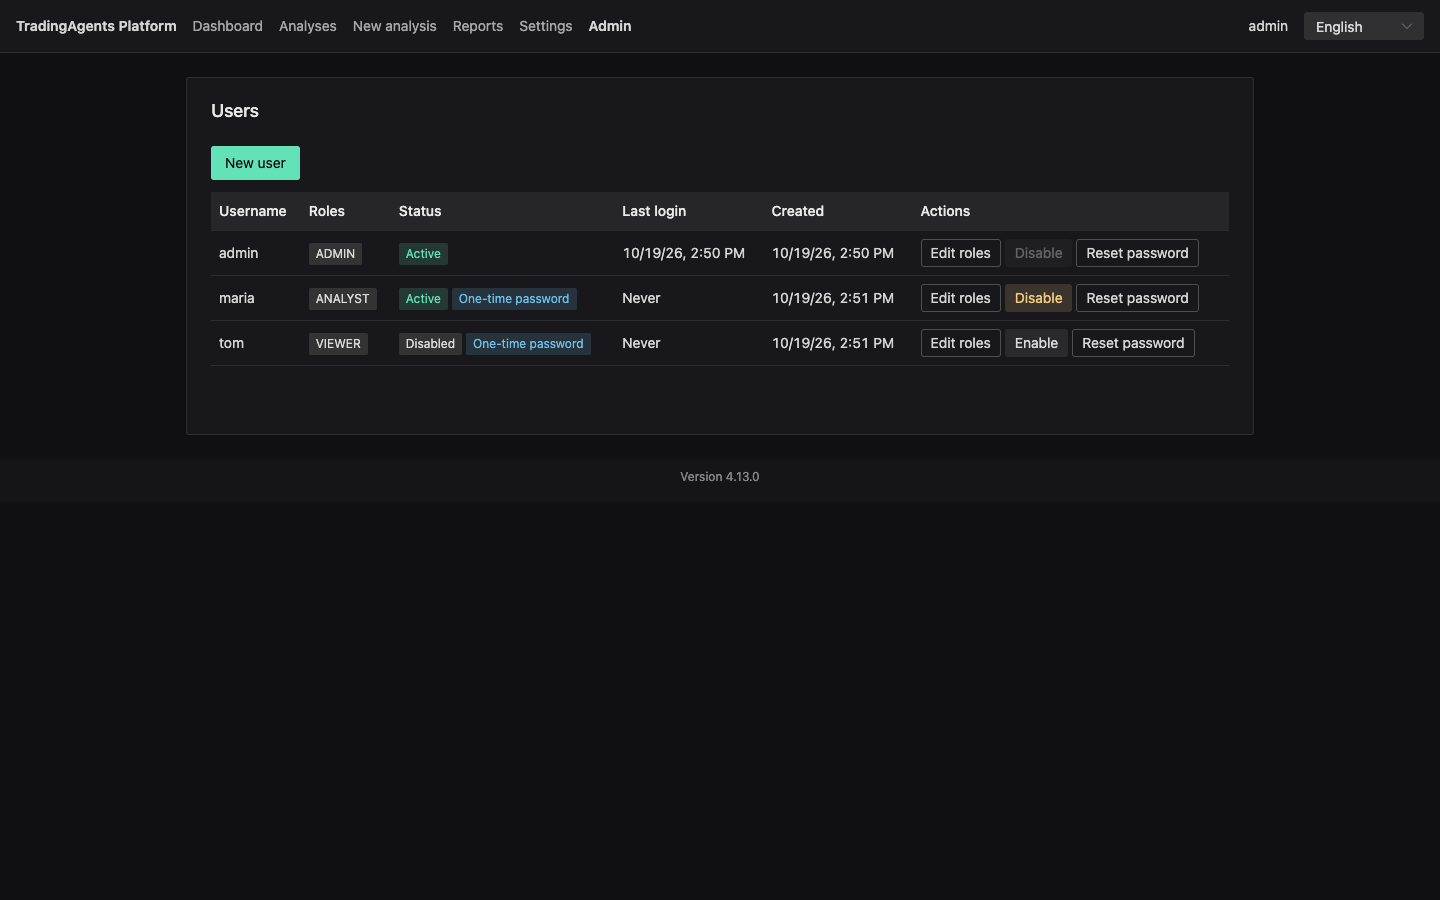
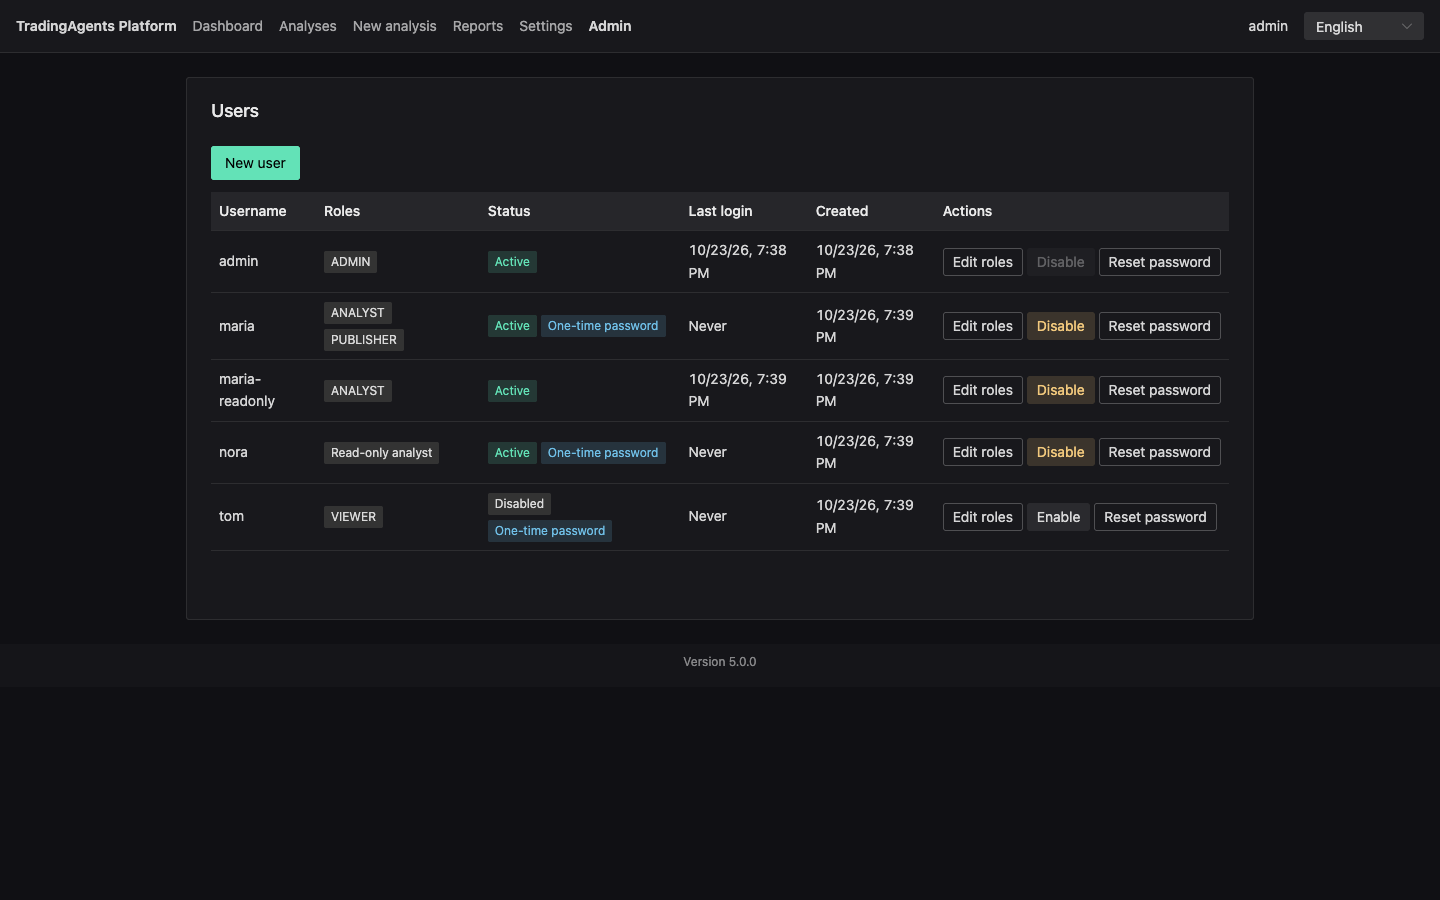
End-to-end test and screenshots for sharing analyses
Work-package: WP5

diff --git a/e2e/tests/sharing.e2e.ts b/e2e/tests/sharing.e2e.ts
@@ -1,0 +1,72 @@
+import { expect, test } from '@playwright/test'
+import { completedAnalysis, csrfHeaders, DECISION_TEXT, loginAsNewUser } from './support'
+
+// Runs as the shared admin, whose session must not change. The two users are created here with
+// unique names, because the tests run in parallel and are retried.
+
+test('a published analysis is read-only for another user until its owner makes it private', async ({
+  request,
+  browser,
+}) => {
+  const ticker = 'AVGO'
+  const headers = await csrfHeaders(request)
+  const roles = (await (await request.get('/api/roles')).json()) as { id: string; name: string }[]
+  const roleId = (name: string) => roles.find((role) => role.name === name)!.id
+
+  async function createUser(username: string, roleNames: string[]) {
+    const created = await request.post('/api/users', {
+      headers,
+      data: { username, roleIds: roleNames.map(roleId) },
+    })
+    expect(created.ok(), await created.text()).toBe(true)
+    return (await created.json()) as { user: { id: string }; oneTimePassword: string }
+  }
+
+  const suffix = Date.now()
+  const nameA = `e2e-publisher-${suffix}`
+  const nameB = `e2e-reader-${suffix}`
+  const a = await createUser(nameA, ['ANALYST', 'PUBLISHER'])
+  const b = await createUser(nameB, ['ANALYST'])
+
+  const publisher = await loginAsNewUser(browser, nameA, a.oneTimePassword)
+  const reader = await loginAsNewUser(browser, nameB, b.oneTimePassword)
+  try {
+    const id = await completedAnalysis(publisher.context.request, ticker, {
+      platformModels: true,
+    })
+
+    await publisher.page.goto(`/analyses/${id}`)
+    await publisher.page.getByRole('switch').click()
+    await publisher.page.getByRole('button', { name: 'Confirm' }).click()
+    await expect(publisher.page.getByRole('switch')).toBeChecked()
+
+    await reader.page.goto('/analyses')
+    await reader.page.locator('.n-tabs-tab', { hasText: 'Shared with everyone' }).click()
+    await expect(reader.page).toHaveURL(/scope=SHARED/)
+    const row = reader.page.getByRole('row', { name: new RegExp(ticker) })
+    await expect(row.getByRole('cell', { name: nameA })).toBeVisible()
+    await expect(row.getByText('Public')).toBeVisible()
+    await row.getByText(ticker).click()
+
+    await expect(reader.page).toHaveURL(new RegExp(`/analyses/${id}`))
+    await expect(reader.page.getByText(`Shared by ${nameA}`)).toBeVisible()
+    await expect(reader.page.getByText(DECISION_TEXT).first()).toBeVisible()
+    await expect(reader.page.getByRole('button', { name: 'Stop' })).toHaveCount(0)
+    await expect(reader.page.getByRole('button', { name: 'Run again' })).toHaveCount(0)
+    await expect(reader.page.locator('.n-tabs-tab', { hasText: 'Reports' })).toBeVisible()
+    await expect(reader.page.locator('.n-tabs-tab', { hasText: 'Log' })).toHaveCount(0)
+    await expect(reader.page.getByRole('switch')).toHaveCount(0)
+    await expect(reader.page.getByRole('button', { name: 'Make private' })).toHaveCount(0)
+
+    await publisher.page.getByRole('switch').click()
+    await expect(publisher.page.getByRole('switch')).not.toBeChecked()
+
+    await reader.page.reload()
+    await expect(reader.page.getByText('Analysis not found.')).toBeVisible()
+    await reader.page.goto('/analyses?scope=SHARED')
+    await expect(reader.page.getByRole('row', { name: new RegExp(ticker) })).toHaveCount(0)
+  } finally {
+    await publisher.context.close()
+    await reader.context.close()
+  }
+})

diff --git a/e2e/tests/support.ts b/e2e/tests/support.ts
@@ -1,4 +1,4 @@
-import { expect, type APIRequestContext } from '@playwright/test'
+import { expect, type APIRequestContext, type Browser } from '@playwright/test'
 
 /** The first admin that start-platform.sh configures (PLATFORM_ADMIN_USERNAME / _PASSWORD). */
 export const E2E_USER = 'admin'
@@ -14,6 +14,28 @@ export async function csrfHeaders(request: APIRequestContext): Promise<Record<st
   return token ? { 'X-XSRF-TOKEN': decodeURIComponent(token) } : {}
 }
 
+/**
+ * Logs in a user that an admin has just created with a one-time password, changes that password and
+ * returns the page with its context (the caller closes the context). The shared admin's session is
+ * not touched.
+ */
+export async function loginAsNewUser(browser: Browser, username: string, oneTimePassword: string) {
+  const newPassword = 'a-brand-new-password-1'
+  const context = await browser.newContext({ storageState: { cookies: [], origins: [] } })
+  const page = await context.newPage()
+  await page.goto('/login')
+  await page.getByPlaceholder('Username').fill(username)
+  await page.getByPlaceholder('Password').fill(oneTimePassword)
+  await page.getByRole('button', { name: 'Log in' }).click()
+  await expect(page).toHaveURL(/\/password\?redirect=\/$/)
+  await page.getByPlaceholder('Current password').fill(oneTimePassword)
+  await page.getByPlaceholder('New password', { exact: true }).fill(newPassword)
+  await page.getByPlaceholder('Repeat new password').fill(newPassword)
+  await page.getByRole('button', { name: 'Change password' }).click()
+  await expect(page).toHaveURL('/')
+  return { page, context }
+}
+
 /** The trade date of the replayed recording (artifact/ta-runner/tests/fixtures/replay-run). */
 export const TRADE_DATE = '2026-09-25'
 
@@ -23,18 +45,24 @@ export const DECISION_TEXT = 'take a 4% position now'
 /**
  * Starts an analysis over the API and waits until ta-runner has replayed it to the end. The tests
  * run in parallel against one platform: every test uses a ticker of its own, so a new test that
- * starts an analysis picks one no other test uses.
+ * starts an analysis picks one no other test uses. Without `analysis:override-models` (an analyst),
+ * pass `platformModels` to leave the models to the platform's defaults.
  */
-export async function completedAnalysis(request: APIRequestContext, ticker: string) {
+export async function completedAnalysis(
+  request: APIRequestContext,
+  ticker: string,
+  { platformModels = false } = {},
+) {
+  const models = platformModels
+    ? {}
+    : { llmProvider: 'openai', deepThinkLlm: 'gpt-5.4-mini', quickThinkLlm: 'gpt-5.4-mini' }
   const started = await request.post('/api/analyses', {
     headers: await csrfHeaders(request),
     data: {
       ticker,
       tradeDate: TRADE_DATE,
       analysts: ['MARKET', 'SOCIAL', 'NEWS', 'FUNDAMENTALS'],
-      llmProvider: 'openai',
-      deepThinkLlm: 'gpt-5.4-mini',
-      quickThinkLlm: 'gpt-5.4-mini',
+      ...models,
     },
   })
   expect(started.ok(), await started.text()).toBe(true)

diff --git a/e2e/tests/ownership.e2e.ts b/e2e/tests/ownership.e2e.ts
@@ -1,5 +1,5 @@
 import { expect, test } from '@playwright/test'
-import { completedAnalysis, csrfHeaders } from './support'
+import { completedAnalysis, csrfHeaders, loginAsNewUser } from './support'
 
 // Runs as the shared admin, whose session must not change. The analyst is created here with a unique
 // name, because the tests run in parallel and are retried.
@@ -13,7 +13,6 @@ test("an analyst does not see the admin's run, and the admin sees it with its ow
   const id = await completedAnalysis(request, ticker)
 
   const username = `e2e-analyst-${Date.now()}`
-  const newPassword = 'a-brand-new-password-1'
   const roles = (await (await request.get('/api/roles')).json()) as { id: string; name: string }[]
   const analyst = roles.find((role) => role.name === 'ANALYST')
   expect(analyst).toBeDefined()
@@ -24,23 +23,14 @@ test("an analyst does not see the admin's run, and the admin sees it with its ow
   expect(created.ok(), await created.text()).toBe(true)
   const { oneTimePassword } = (await created.json()) as { oneTimePassword: string }
 
-  const context = await browser.newContext({ storageState: { cookies: [], origins: [] } })
-  const analystPage = await context.newPage()
+  const { page: analystPage, context } = await loginAsNewUser(browser, username, oneTimePassword)
   try {
-    await analystPage.goto('/login')
-    await analystPage.getByPlaceholder('Username').fill(username)
-    await analystPage.getByPlaceholder('Password').fill(oneTimePassword)
-    await analystPage.getByRole('button', { name: 'Log in' }).click()
-    await expect(analystPage).toHaveURL(/\/password\?redirect=\/$/)
-    await analystPage.getByPlaceholder('Current password').fill(oneTimePassword)
-    await analystPage.getByPlaceholder('New password', { exact: true }).fill(newPassword)
-    await analystPage.getByPlaceholder('Repeat new password').fill(newPassword)
-    await analystPage.getByRole('button', { name: 'Change password' }).click()
-    await expect(analystPage).toHaveURL('/')
-
     await analystPage.goto('/analyses')
     await expect(analystPage.locator('.n-card-header__main', { hasText: 'Analyses' })).toBeVisible()
-    await expect(analystPage.getByRole('switch')).toHaveCount(0)
+    await expect(
+      analystPage.locator('.n-tabs-tab', { hasText: 'Shared with everyone' }),
+    ).toBeVisible()
+    await expect(analystPage.locator('.n-tabs-tab', { hasText: 'All users' })).toHaveCount(0)
     await expect(analystPage.getByRole('row', { name: new RegExp(ticker) })).toHaveCount(0)
 
     await analystPage.goto(`/analyses/${id}`)
@@ -50,8 +40,8 @@ test("an analyst does not see the admin's run, and the admin sees it with its ow
   }
 
   await page.goto('/analyses')
-  await page.getByRole('switch').click()
-  await expect(page).toHaveURL(/allUsers=true/)
+  await page.locator('.n-tabs-tab', { hasText: 'All users' }).click()
+  await expect(page).toHaveURL(/scope=ALL/)
   await expect(page.getByRole('columnheader', { name: 'Owner' })).toBeVisible()
   await expect(
     page

diff --git a/e2e/screenshots/analyses.shot.ts b/e2e/screenshots/analyses.shot.ts
@@ -1,18 +1,24 @@
 import { expect, test } from '@playwright/test'
-import { replayedRun } from './runs'
+import { csrfHeaders } from '../tests/support'
+import { replayedRun, versionOf } from './runs'
 import { shot } from './support'
 
-// README, "7. Past analyses": the Analyses list of all users, with the Owner column and two runs
-// ticked for comparing.
+// README, "7. Past analyses": the Analyses list on the All users tab, with the Owner column, one
+// public run and two runs ticked for comparing.
 test('analyses list with two runs ticked', async ({ page, request }) => {
   // Four replayed runs, one after the other.
   test.setTimeout(240_000)
   await replayedRun(request, 'AMD', '2026-09-22')
   await replayedRun(request, 'MU', '2026-09-23', 'gpt-5.4')
   await replayedRun(request, 'NVDA', '2026-09-24', 'gpt-5.4')
-  await replayedRun(request, 'NVDA', '2026-09-25')
+  const shared = await replayedRun(request, 'NVDA', '2026-09-25')
+  const published = await request.put(`/api/analyses/${shared}/visibility`, {
+    headers: await csrfHeaders(request),
+    data: { visibility: 'PUBLIC', version: await versionOf(request, shared) },
+  })
+  expect(published.ok(), await published.text()).toBe(true)
 
-  await page.goto('/analyses?allUsers=true')
+  await page.goto('/analyses?scope=ALL')
   await expect(page.getByRole('columnheader', { name: 'Owner' })).toBeVisible()
   for (const row of [0, 1]) {
     await page.getByRole('row', { name: /NVDA/ }).nth(row).getByRole('checkbox').click()

diff --git a/e2e/screenshots/users.shot.ts b/e2e/screenshots/users.shot.ts
@@ -2,22 +2,22 @@ import { expect, test } from '@playwright/test'
 import { csrfHeaders } from '../tests/support'
 import { shot } from './support'
 
-// README, "3. Log in": the Users page with an active ANALYST and a disabled VIEWER.
+// README, "3. Log in": the Users page with an active ANALYST who can also publish and a disabled VIEWER.
 test('users page', async ({ page, request }) => {
   const headers = await csrfHeaders(request)
   const roles = (await (await request.get('/api/roles')).json()) as { id: string; name: string }[]
   const roleId = (name: string) => roles.find((role) => role.name === name)!.id
 
-  async function createUser(username: string, role: string) {
+  async function createUser(username: string, ...userRoles: string[]) {
     const created = await request.post('/api/users', {
       headers,
-      data: { username, roleIds: [roleId(role)] },
+      data: { username, roleIds: userRoles.map(roleId) },
     })
     expect(created.ok(), await created.text()).toBe(true)
     return ((await created.json()) as { user: { id: string } }).user.id
   }
 
-  await createUser('maria', 'ANALYST')
+  await createUser('maria', 'ANALYST', 'PUBLISHER')
   const viewer = await createUser('tom', 'VIEWER')
   const disabled = await request.patch(`/api/users/${viewer}`, {
     headers,

diff --git a/e2e/screenshots/runs.ts b/e2e/screenshots/runs.ts
@@ -1,6 +1,12 @@
 import { expect, type APIRequestContext } from '@playwright/test'
 import { csrfHeaders } from '../tests/support'
 
+/** The stored version of an analysis, which a change of its visibility has to send back. */
+export async function versionOf(request: APIRequestContext, id: string) {
+  const analysis = await request.get(`/api/analyses/${id}`)
+  return ((await analysis.json()) as { version: number }).version
+}
+
 /**
  * Starts an analysis over the API and waits until ta-runner has replayed it. The recording's reports
  * are the same for every run; the ticker, date and models make the runs differ. The platform runs one

diff --git a/e2e/screenshots/share.shot.ts b/e2e/screenshots/share.shot.ts
@@ -1,0 +1,13 @@
+import { expect, test } from '@playwright/test'
+import { replayedRun } from './runs'
+import { shot } from './support'
+
+// README, "6. Watch it and read the results": a completed run's owner about to make it public.
+test('run detail with the share confirmation', async ({ page, request }) => {
+  const id = await replayedRun(request, 'NVDA', '2026-09-25')
+
+  await page.goto(`/analyses/${id}`)
+  await page.getByRole('switch').click()
+  await expect(page.getByText('Everyone on the platform will see this analysis.')).toBeVisible()
+  await shot(page, 'run-share')
+})
